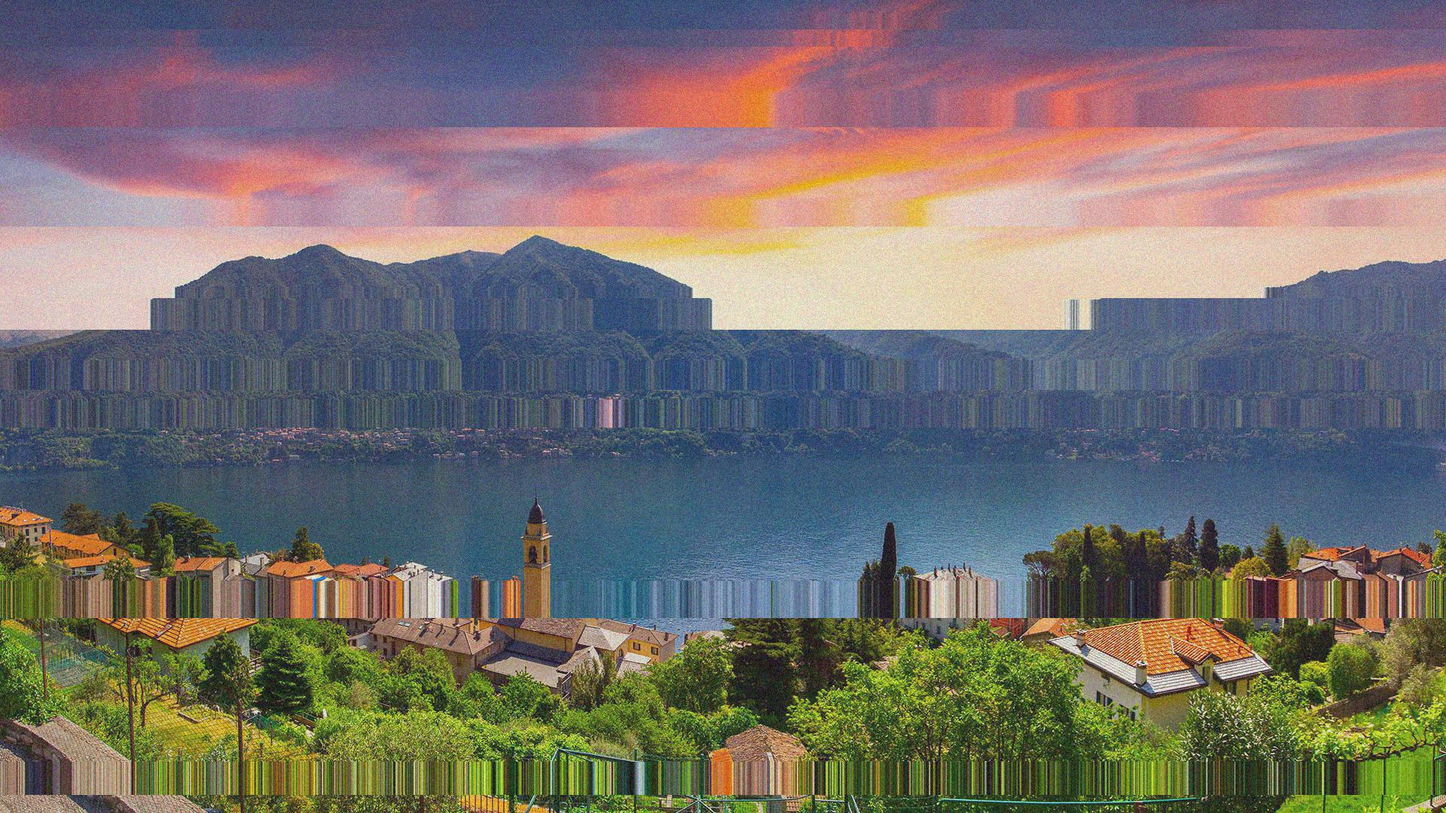
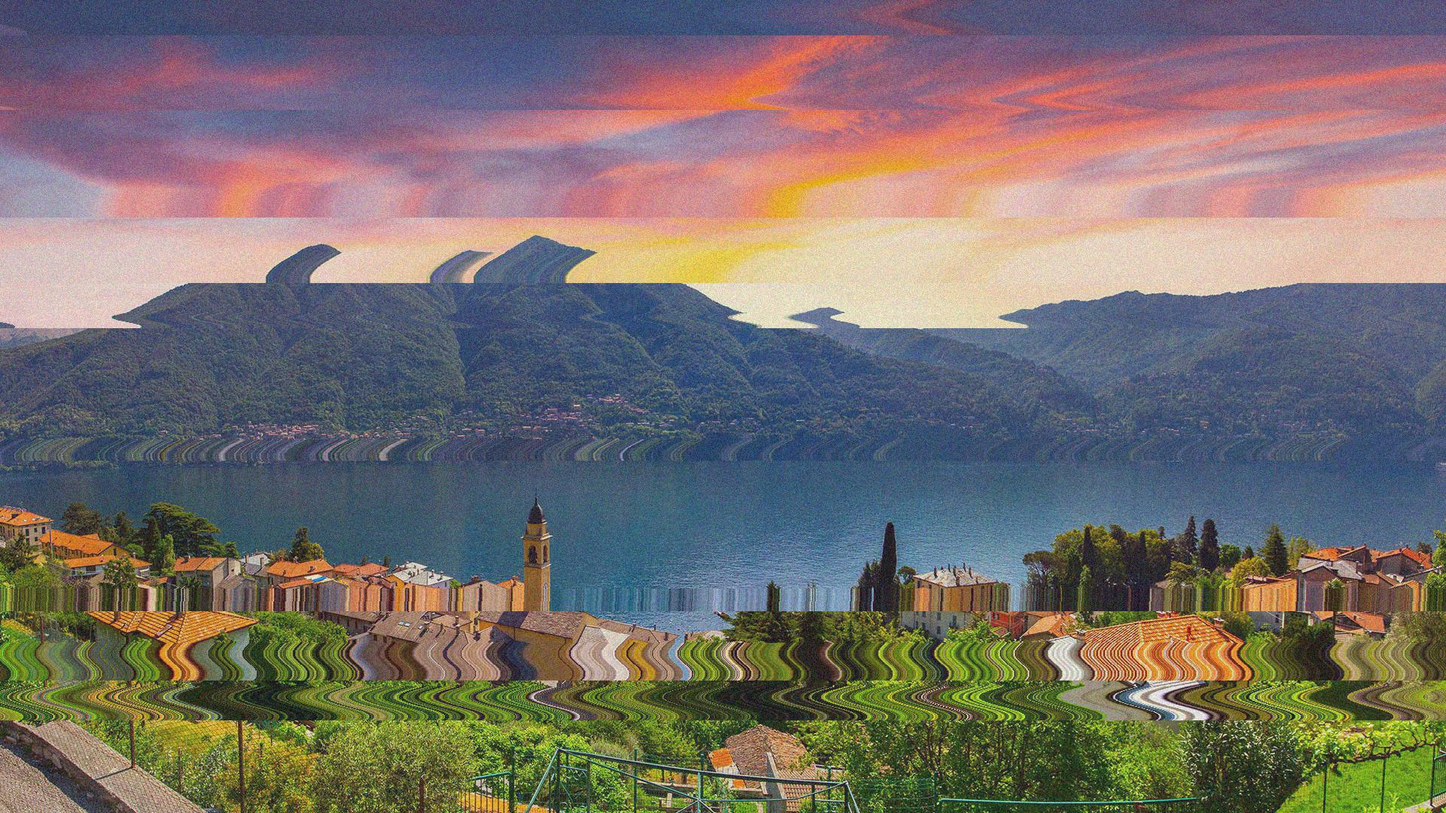
Sine waves offsets

diff --git a/main.py b/main.py
@@ -7,7 +7,17 @@ import json
 import numpy as np
 import imageio
 import random
+from math import floor
 
+
+def generate_offsets(array_size, max_offset):
+    periodicity = random.randint(1, 20)
+    periodicity = random.random() * periodicity
+    offsets = []
+    for i in range(array_size):
+        # print(floor(max_offset*np.sin(periodicity*(i*np.pi/180))))
+        offsets.append(floor(max_offset*np.sin(periodicity*(i*np.pi/180))))
+    return offsets
 
 
 def HSVColor(img):
@@ -52,10 +62,12 @@ def mod_image_repeat_rows(imgname, chance_of_row_repeat=0, max_row_repeats=0, mi
     num_repeats = 0
     times_to_repeat = 0
     row_to_repeat = []
+    offsets = []
     for y in range(height):
         if not repeat and decision(chance_of_row_repeat):
             repeat = True
             times_to_repeat = random.randint(min_row_repeats, max_row_repeats)
+            offsets = generate_offsets(times_to_repeat, random.randint(10, 50))
             print("Repeat true: " + str(times_to_repeat))
         for x in range(width):
             r, g, b = img.getpixel((x, y))
@@ -64,7 +76,10 @@ def mod_image_repeat_rows(imgname, chance_of_row_repeat=0, max_row_repeats=0, mi
                 pixels[x, y] = (r, g, b)
                 row_to_repeat.append((r, g, b))
             elif repeat:
-                pixels[x, y] = row_to_repeat[x]
+                try:
+                    pixels[x, y] = row_to_repeat[x + offsets[num_repeats]]
+                except Exception as e:
+                    pixels[x, y] = row_to_repeat[x - offsets[num_repeats]]
             else:
                 pixels[x, y] = (r, g, b)
         
@@ -75,6 +90,7 @@ def mod_image_repeat_rows(imgname, chance_of_row_repeat=0, max_row_repeats=0, mi
                 times_to_repeat = 0
                 num_repeats = 0
                 row_to_repeat = []
+                offsets = []
     if save:
         img.save("test1.jpg")
 
@@ -94,5 +110,7 @@ def offset_hue(image):
 #getImage()
 mod_image_repeat_rows("uhd.jpg", 0.012, 50, 10)
 add_img_noise("test1.jpg")
+
+#generate_offsets(30, 50)
 
 #offset_hue("uhd.jpg")
